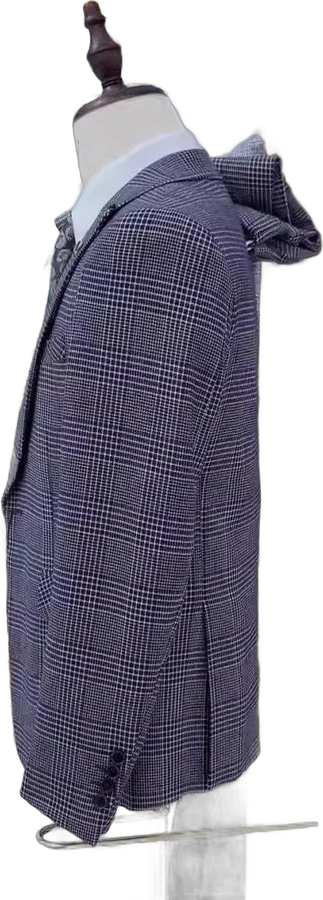
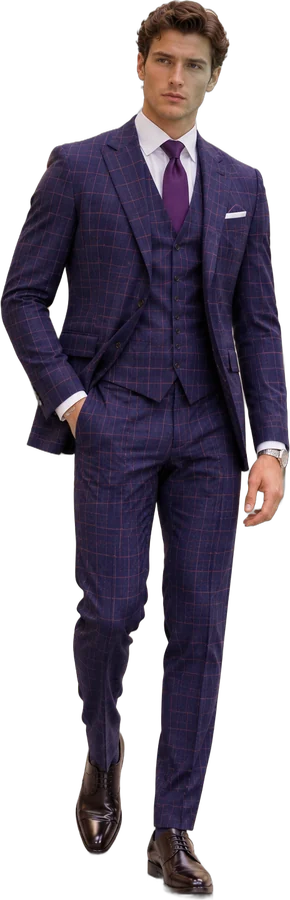
Men's suits on the owner's ChatGPT models: cut-outs, first product photo, Trending now; price check for 11 suits
Claude-Session: https://claude.ai/code/session_01BVg3Sp6Q4rkUjpvpxWJjLT

diff --git a/functions/api/catalog.ts b/functions/api/catalog.ts
@@ -1,6 +1,7 @@
 interface Env { DB: D1Database; ASSETS?: { fetch: (input: Request | string) => Promise<Response> } }
 import { cleanSupplierText, cleanTitle, imageAlt } from '../../src/lib/productText';
 import { siteImage } from '../../src/lib/imageProxy';
+import { modelPhoto } from '../../src/lib/modelPhotos';
 import { assignmentFromStoreTags, publicProductTags } from '../../src/lib/storeCollectionTaxonomy';
 
 type DbProduct = {
@@ -65,7 +66,10 @@ export async function onRequestGet({ env, request }: { env: Env; request: Reques
   for (const row of results) {
     // Products whose photo failed the photo check are never shown, so don't send them.
     if (shown && !shown.has(row.id)) continue;
-    const imageRows = (imagesByProduct.get(row.id) ?? []).slice(0, full ? 8 : 2).map(({ url, alt }) => ({ url: siteImage(url), alt: imageAlt(alt, cleanTitle(row.title)) }));
+    const ownPhoto = modelPhoto(row.id);
+    // The owner's on-model photo goes first; the supplier's mannequin shots follow.
+    const imageRows = [...(ownPhoto ? [{ url: ownPhoto, alt: null }] : []), ...(imagesByProduct.get(row.id) ?? [])]
+      .slice(0, full ? 8 : 2).map(({ url, alt }) => ({ url: ownPhoto === url ? url : siteImage(url), alt: imageAlt(alt, cleanTitle(row.title)) }));
     const variantRows = sizesByProduct.get(row.id) ?? [];
     const verified = row.supplier_verified === 1;
     // Each active variant's label is unique per product ("M", "38", "Black / M") and is what checkout matches on.

diff --git a/server/seo.ts b/server/seo.ts
@@ -6,6 +6,7 @@
 import { cleanSupplierText, cleanTitle } from '../src/lib/productText';
 import { brand } from '../src/config/brand';
 import { STATIC_PAGES as STATIC, categoryTitle } from '../src/lib/pageTitles';
+import { modelPhoto } from '../src/lib/modelPhotos';
 import { menStoreCollectionGroups, storeCollectionGroups } from '../src/lib/storeCollectionTaxonomy';
 
 export interface PageSeo { title: string; description: string; image: string; type: 'website' | 'product'; jsonLd: object[] }
@@ -36,7 +37,7 @@ async function productSeo(db: D1Database, slug: string, canonical: string): Prom
   if (!row) return null;
   row.title = cleanTitle(row.title);
   const description = clip(plain(row.description) || `${row.title}, with free tracked shipping from ${BRAND}.`);
-  const image = row.image ?? DEFAULT_IMAGE;
+  const image = modelPhoto(row.id, SITE) ?? row.image ?? DEFAULT_IMAGE;
   const product: Record<string, unknown> = {
     '@context': 'https://schema.org', '@type': 'Product', name: row.title, description, image: [image], sku: row.id,
     brand: { '@type': 'Brand', name: BRAND }, url: canonical,

diff --git a/functions/merchant-feed.xml.ts b/functions/merchant-feed.xml.ts
@@ -1,4 +1,5 @@
 import { cleanSupplierText, cleanTitle } from '../src/lib/productText';
+import { modelPhoto } from '../src/lib/modelPhotos';
 interface Env { DB: D1Database; ASSETS?: { fetch: (input: Request | string) => Promise<Response> } }
 
 const SITE = 'https://davinova.com';
@@ -31,7 +32,7 @@ export async function onRequestGet({ env, request }: { env: Env; request: Reques
 <title>${esc(cleanTitle(row.title).slice(0, 150))}</title>
 <description>${esc((plain(row.description) || cleanTitle(row.title)).slice(0, 4900))}</description>
 <link>${esc(link)}</link>
-<g:image_link>${esc(row.image as string)}</g:image_link>
+<g:image_link>${esc(modelPhoto(row.id, SITE) ?? (row.image as string))}</g:image_link>
 <g:availability>${row.variants > 0 ? 'in_stock' : 'out_of_stock'}</g:availability>
 <g:price>${onSale ? `${((row.compare_at_cents as number) / 100).toFixed(2)} ${currency}` : price}</g:price>${onSale ? `\n<g:sale_price>${price}</g:sale_price>` : ''}
 <g:brand>Davinova</g:brand>

diff --git a/src/lib/modelPhotos.ts b/src/lib/modelPhotos.ts
@@ -1,0 +1,19 @@
+// Owner's on-model photos made in ChatGPT for CJ suits that only had mannequin shots (2026-11-08, batch 1).
+// public/images/men-models/<id>.webp is shown first on the product page; the background-free cut is in public/cutouts.
+// Every photo was checked by eye against the CJ garment before going in.
+export const MODEL_PHOTOS: ReadonlySet<string> = new Set([
+  'cj-1376730184245448704',
+  'cj-1403525996090626048',
+  'cj-1795331123610918912',
+  'cj-1795000334524358656',
+  'cj-2406280528441618200',
+  'cj-2504210155411604400',
+  'cj-2406140236131600400',
+  'cj-2501150756191615500',
+  'cj-1778320215491751936',
+  'cj-2507310640101627800',
+  'cj-1405822637829132288',
+]);
+
+/** The owner's on-model photo for a product, or undefined. Pass the site origin for absolute links (feeds, SEO). */
+export const modelPhoto = (id: string, origin = '') => (MODEL_PHOTOS.has(id) ? `${origin}/images/men-models/${id}.webp` : undefined);

diff --git a/src/lib/trendingLooks.ts b/src/lib/trendingLooks.ts
@@ -1,6 +1,18 @@
 // Products whose photo shows one whole model, head to toe, checked by eye on 2026-10-27 (owner's rule for Trending now).
 // The automatic photo check let flat lays, vests and cropped legs through, so the rails use this list instead.
 export const TRENDING_LOOKS: ReadonlySet<string> = new Set([
+  // Men's suits on the owner's ChatGPT models (2026-11-08), checked by eye.
+  'cj-1376730184245448704',
+  'cj-1403525996090626048',
+  'cj-1795331123610918912',
+  'cj-1795000334524358656',
+  'cj-2406280528441618200',
+  'cj-2504210155411604400',
+  'cj-2406140236131600400',
+  'cj-2501150756191615500',
+  'cj-1778320215491751936',
+  'cj-2507310640101627800',
+  'cj-1405822637829132288',
   'cj-01E84366-F2EB-430E-8E63-0C950FC997AB',
   'cj-0C817C6A-60D2-4447-B770-6D900FC59CDB',
   'cj-123210CC-D00F-4E17-A92B-36477847F998',
